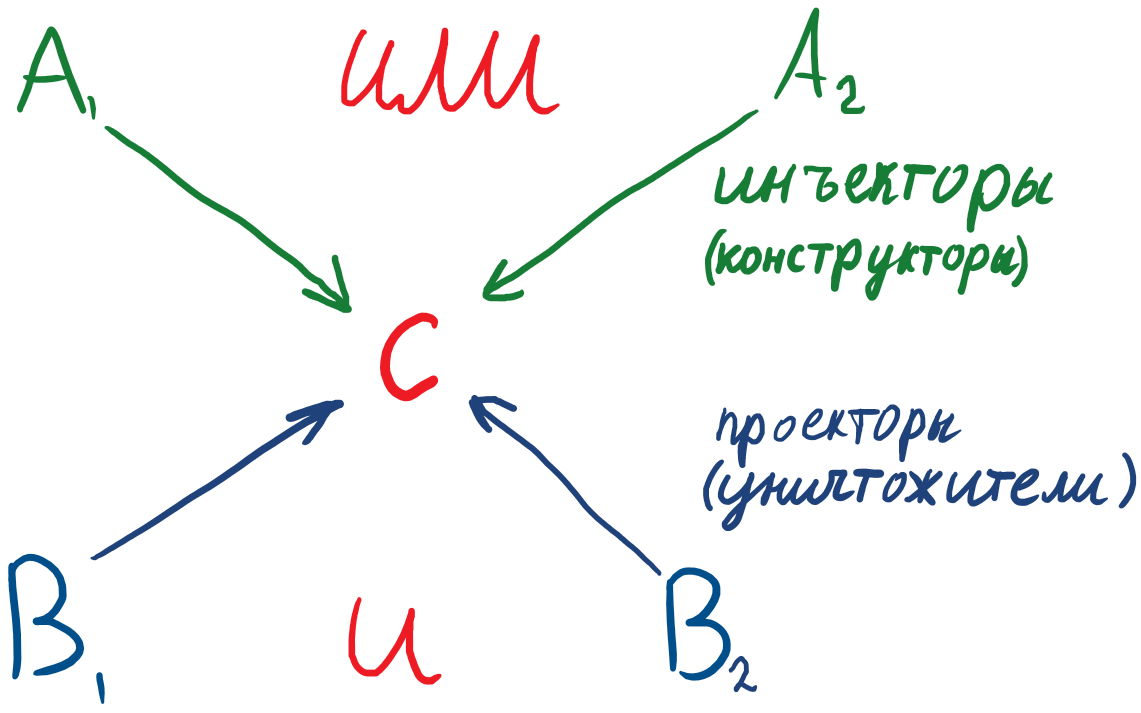
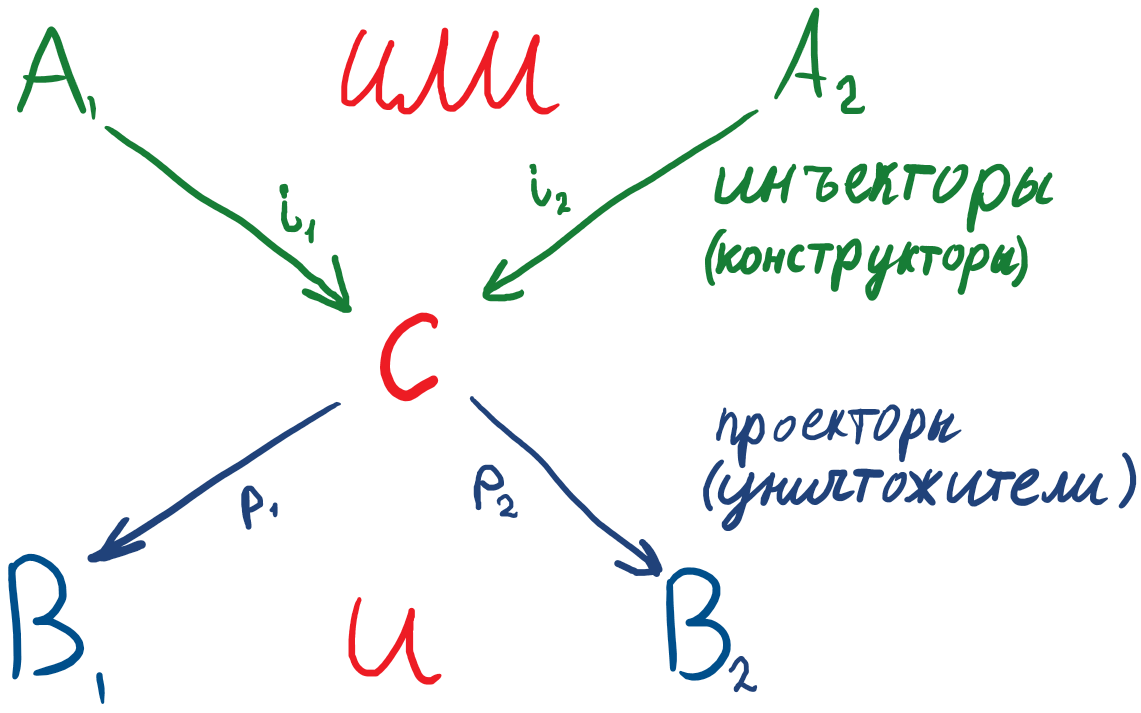
tt

diff --git a/Рефераты/Теория типов/Основы теории типов.md b/Рефераты/Теория типов/Основы теории типов.md
@@ -46,7 +46,7 @@
 
 Не секрет, что программирование основывается на глубокой математической теории. Многие ключевые понятия, которые встречаются в различных областях компьютерных наук, пришли именно из математики. Поэтому всем, кто хочет быть программистом, было бы здорово получить более широкое видение предмета - разобраться в самой математической основе программирования.  Но, зачастую, это возвышенное намерение наталкивается на высокий порог вхождения в высшую математику. Основная проблема заключается в традиционных особенностях математической литературы - нарочитой оторванности от реальности, от практических задач. Типичный математический текст начинается со знакомства со "взятой с потолка" абстракцией, и потом рассматриваются её "удивительной красоты" свойства. И только в редких работах где-то в конце можно увидеть коротенькую заметку, что, мол, какие-то физики нашли как применить эту "красоту" для каких-то там своих нужд.
 
-Порог вхождения снижают различные блоги, в которых рассказывается, как те или иные математические абстракции применяются для решения конкретных задач, в частности, в программировании. Но при объяснении полезности абстракции часто упускается важный аспект - **неизбежность** появления именно этой абстракции как **наилучшего** инструмента для решения целого класса задач. Дело в том, что зачастую сами условия обобщённой задачи приводят к появлению наилучшей абстракции для её решения. Понимание связи абстракции с условиями задачи расширяет горизонты, позволяет в дальнейшем находить оптимальные реализации этой абстракции для каждого конкретного случая, подпадающего под указанные условия. Именно на этот аспект сделан основной упор в данном обзоре теории типов.
+Порог вхождения снижают различные блоги, в которых популярно рассказывается, как те или иные математические абстракции применяются для решения конкретных задач, в частности, в программировании. Но при объяснении полезности абстракции часто упускается важный аспект - **неизбежность** появления именно этой абстракции как **наилучшего** инструмента для решения целого класса задач. Дело в том, что зачастую сами условия обобщённой задачи приводят к появлению наилучшей абстракции для её решения. Понимание связи абстракции с условиями задачи расширяет горизонты, позволяет в дальнейшем находить оптимальные реализации этой абстракции для каждого конкретного случая, подпадающего под указанные условия. Именно на этот аспект сделан основной упор в данном обзоре теории типов.
 
 Теория типов - очень богатая тема, поэтому в этой статье придётся ограничится лишь самыми ключевыми аспектами. Многое останется за кадром - обобщённые, рекурсивные, зависимые типы и многое другое. Практически не будет упоминаться теория категорий, хотя будут использоваться некоторые понятия оттуда. Всё это - очень интересные, но достаточно самостоятельные темы, которые имеет смысл освещать отдельно.
 
@@ -54,11 +54,12 @@
 
 ## Множества и классы
 
-### Предпосылки
+### Алгоритмы и переменные
 
 С давних времён люди находили нечто общее в решаемых задачах из самых разных сфер жизни. Например, если одна корова да ещё одна корова - это две коровы, то такое же рассуждение справедливо и для яблок. В этом рассуждении ключевую роль играют не коровы (и, тем более, не яблоки), а [**числа**](https://ru.wikipedia.org/wiki/%D0%A7%D0%B8%D1%81%D0%BB%D0%BE) - одна из первых математических абстракций.
 
-Более четырёх тысяч лет назад в древнем Междуречье люди [умели вычислять](https://elementy.ru/nauchno-populyarnaya_biblioteka/434752/Matematika_v_Mesopotamii) объёмы крепостных стен, площади земельных участков, динамику численности стад и проч. Тогда на примере конкретных житейских проблем были описаны **способы вычисления**, которые применимы для широкого спектра задач, достаточно лишь заменить числа в условии. Но лишь в средние века в Европе в обиход вошло понятие «[алгоритм](https://ru.wikipedia.org/wiki/%D0%90%D0%BB%D0%B3%D0%BE%D1%80%D0%B8%D1%82%D0%BC "Алгоритм")» (по имени [учёного IX века](https://ru.wikipedia.org/wiki/%D0%90%D0%BB%D1%8C-%D0%A5%D0%BE%D1%80%D0%B5%D0%B7%D0%BC%D0%B8)), для которого необходимо использование новой абстракции - [**переменной**](https://ru.wikipedia.org/wiki/%D0%9F%D0%B5%D1%80%D0%B5%D0%BC%D0%B5%D0%BD%D0%BD%D0%B0%D1%8F_%D0%B2%D0%B5%D0%BB%D0%B8%D1%87%D0%B8%D0%BD%D0%B0).
+Более четырёх тысяч лет назад в древнем Междуречье люди [умели вычислять](https://elementy.ru/nauchno-populyarnaya_biblioteka/434752/Matematika_v_Mesopotamii) объёмы крепостных стен, площади земельных участков, динамику численности стад и проч. Тогда на примере конкретных житейских проблем были описаны **способы вычисления**, которые применимы для широкого спектра задач, достаточно лишь заменить числа в условии. Но лишь в средние века в Европе в обиход вошло понятие «[алгоритм](https://ru.wikipedia.org/wiki/%D0%90%D0%BB%D0%B3%D0%BE%D1%80%D0%B8%D1%82%D0%BC "Алгоритм")», для которого необходимо использование новой абстракции - [**переменной**](https://ru.wikipedia.org/wiki/%D0%9F%D0%B5%D1%80%D0%B5%D0%BC%D0%B5%D0%BD%D0%BD%D0%B0%D1%8F_%D0%B2%D0%B5%D0%BB%D0%B8%D1%87%D0%B8%D0%BD%D0%B0).
+![[математика Вавилона.png|Вавилонская табличка Plimpton 322 (~4000 лет), в которой собраны пифагоровы тройки — размеры прямоугольных треугольников, у которых оба катета и гипотенуза выражаются целыми числами.|300]]
 
 Термин "переменная" вовсе не означает, что связанное с ней значение будет меняться по ходу выполнения алгоритма, но значение будет разным для разных задач, которые призван решать этот алгоритм. Обычно, наоборот, подразумевается, что в течении решения задачи переменная остаётся неизменяемой. Если же какое-либо значение окажется фиксированным для всего класса задач, то такое значение принято называть **константой** алгоритма.
 
@@ -69,35 +70,34 @@
 ### Множества
 
 Множество определяется условием **принадлежности** к нему какого-либо элемента (которое, например, может быть другим множеством): $a\in A$.
-Существует выделенное пустое множество $\emptyset$, такое что для любого $a$ утверждение $a\in\emptyset$ ложно. Задать множество можно двумя способами:
+Существуют выделенные пустое $\emptyset$ и универсальное (вселенское) $\mathcal{U}$ множества, такие, что для любого $a$ утверждения $a\in\emptyset$ ложно, а $a\in\mathcal{U}$ истинно. Задать множество можно двумя способами:
 * **экстенсионально** - просто перечислив его элементы - $\{a, b, c\}$;
 * **интенсионально** - указав условие, по которому можно выбрать некоторые элементы существующего множества - $\{$*множество всех людей, кто сейчас читает эту статью*$\}$.
 
 Интенсионально, через условие, определяются основные операции над множествами.
-![[операции над множествами.png]]
+![[операции над множествами.png|Бинарные операции над множествами: пересечение, объединение и разность.|600]]
 
 Также важно понятие отношения между множествами, в частности, равенство множеств.
-![[отношения множеств.png]]
+![[отношения множеств.png|Отношения между множествами.|600]]
 
 ### Неразличимость и вычисления
 
 Итак, множества нужны прежде всего для того, чтобы характеризовать алгоритмы-функции, отношения совокупностей входных и выходных данных для них. Отношения между множествами принято классифицировать так:
-![[отображения множеств.png]]
-Биекция задаёт класс эквивалентности множеств, что подводит к понятию **мощности** множества. Множества одинаковой мощности являются эквивалентными, неразличимыми, если они не обогащения иными математическими структурами.
+![[отображения множеств.png|Отображения множеств.|600]]
+Биекция задаёт *класс эквивалентности* множеств, что подводит к понятию **мощности** множества. Множества одинаковой мощности являются эквивалентными, неразличимыми, если они не обогащения иными математическими структурами.
 
-Например, восьми-байтовая ячейка памяти может хранить в себе значения как из множества `Int64`, так и из `double` - эти множества имеют одинаковую мощность, но чтобы различить их необходимо для них предоставляется **разный набор возможностей**. Или житейский пример: мы не сможем отличить множество коров от множества яблок, если и яблоки и коровы не только выглядят, но даже пишутся одинаково))). А если не одинаково, значит у нас есть **дополнительная структура** над множествами - операция отношения, которая позволяет сравнить корову с яблоком.
+Например, восьми-байтовая ячейка памяти может хранить в себе значения как из множества `Int64`, так и из `double` - эти множества имеют одинаковую мощность, но чтобы различить их необходимо для них предоставляется **разный набор возможностей**. Или житейский пример: мы не сможем отличить множество коров от множества яблок, если и яблоки и коровы не только выглядят, но даже пишутся одинаково))). А если не одинаково, значит у нас есть **дополнительная структура** над множествами - операция отношения, которая позволяет сравнить корову с яблоком. Но рассмотрим
 
 ### Пример из программирования
 
-Рассмотрим класс задач свёртки списков элементов из выбранного множества - получение на основе списка единственного значения из этого же множества. Суммирование чисел, конкатенация строк или даже получение большой инструкции из последовательности небольших инструкций - всё это частные случаи задач, относящиеся ко всё тоже свёртке списка.
+Есть целый класс задач свёртки списков элементов из выбранного множества - получение на основе списка единственного значения из этого же множества. Суммирование чисел, конкатенация строк или даже получение большой инструкции из последовательности небольших инструкций - всё это частные случаи задач, относящиеся ко всё тоже свёртке списка.
 
 Для такого класса задач нам требуется дополнительная структура над множествами - набор функций позволяющий "уменьшать количество" элементов списка. Такая структура называется "**моноид**". Абстрактный моноид обычно описывается так:
-* некое **множество** (числа, строки...),
-* **бинарная операция** на этом множестве - принимает два элемента множества, и "сворачивает" их в один (сложение, умножение чисел; конкатенация строк или вычисление самой длинной и т.п.),
-* **нейтральный элемент** из этого множества - значение "по умолчанию" для случая пустого списка (единица для умножения, пустая строка для конкатенации...),
-* "законы":
-	* ассоциативность бинарной операции позволяет производить свёртку "в любом направлении" (порядок элементов списка не имеет значения), и даже параллельно (как будто разбиваем список на список нескольких списков и сворачиваем их независимо друг от друга),
-	* свойства нейтрального элемента по отношению к бинарной операции.
+* некое **множество** (числа, строки...);
+* ассоциативная **бинарная операция** на этом множестве - принимает два элемента множества, и "сворачивает" их в один (сложение, умножение чисел; конкатенация строк или вычисление самой длинной и т.п.);
+* **нейтральный элемент** из этого множества, который превращает бинарную операцию в тождественную - значение "по умолчанию" для случая пустого списка (единица для умножения, пустая строка для конкатенации...).
+
+![[моноид.png|Моноид - это множество M, ассоциативная бинарная операция на нём и нейтральный элемент из него.|500]]
 
 На практике для построения алгоритмов с использованием, того же моноида "лишним" в его определении оказывается... множество! В самом деле, если есть возможности моноида (бинарная операция и нейтральный элемент) инструкции не меняются, если в качестве множества мы выбираем `int`, `double` или `string` - описание алгоритма остаётся тем же! Фактически, множество выступает всего лишь как некий ярлык - связующее звено для композиции различных возможности (моноида и прочих). Так на переднем плане появляется концепция типа.
 
@@ -105,8 +105,9 @@
 
 ### Определение типа
 
-Тип - это не более чем некая метка, приписываемая _к каждому_ терму (переменной, выражению и т.п.). Типы позволяют формализовать возможные преобразования термов, без изучения их внутренней структуры, составляющих их элементов. Суть типа полностью определяется совокупностью отображений-функций, связывающих его с другими типами (не только с типами, но не важно))). Зачастую такие отображения бывает удобно отобразить на диаграмме в виде ориентированного графа:
-![[определение типа.png|500]]
+Тип - это не более чем некая метка, приписываемая _к каждому_ терму (переменной, выражению и т.п.). Если терм $a$ типа $A$, то записывается это как $a: A$. Типы позволяют формализовать возможные преобразования термов, без изучения их внутренней структуры, составляющих их элементов. Суть типа полностью определяется совокупностью отображений-функций, связывающих его с другими типами (не только с типами, но не важно))). Зачастую такие отображения бывает удобно отобразить на диаграмме в виде ориентированного графа:
+
+![[определение типа.png|Тип - это метка терма, позволяющая описать процесс вычисления, указав связи-функции (i₁, i₂, p₁, p₂) с другими такими метками.|500]]
 
 Типы отличаются друг от друга только своим положением на такого рода диаграммах. Чтобы определить тип нужно
 * указать совокупность "входящих" отображений (также говорят "инъекторы" или "конструкторы");
@@ -124,34 +125,29 @@
 
 ### Универсальное свойство и композиция функций
 
-Универсальное свойство какой-либо конструкции в теории типов определяется **единственностью** функции из любого типа-кандидата в "наилучший" тип, либо же, наоборот, в обратную сторону. "Единственность" функции, идущей от одного типа к другому, означает *эквивалентность* всех функции также связывающих эти типы. Такой "наилучший" тип и семейство уникальных морфизмов также называют "универсальными".
+Универсальное свойство какой-либо конструкции в теории типов определяется **единственностью** функции из любого типа-кандидата в "наилучший" тип, либо же, наоборот, в обратную сторону. "Единственность" функции, идущей от одного типа к другому, означает *эквивалентность* всех функции связывающих эти типы в том же направлении. "Наилучший" тип и семейство уникальных морфизмов также называют "универсальными".
 
 Универсальное свойство в теории типов можно определить как-то так:
 > Существует тип и единственная функция принимающая (или возвращающая) значения этого типа, такая что соответствующая диаграмма будет коммутативной.
 
-Звучит, пожалуй, сложновато)). Наверное, на начальном этапе универсальное свойство стоит воспринимать просто как некий универсальные способ однозначного формулирования различных абстракций поверх теории типов. Сейчас имеет смысл, разве что, сказать пару слов про упомянутую "коммутативность".
+Звучит, пожалуй, сложновато)). Наверное, на начальном этапе универсальное свойство стоит воспринимать просто как некий универсальные способ однозначного формулирования различных абстракций в теории типов. Сейчас имеет смысл, разве что, сказать пару слов про "коммутативность".
 
 Диаграмма считается коммутативной, если двигаясь по стрелкам *разными* путями от любого значения одного типа к другому мы получим *одинаковый* результат ("перестановочность путей"). Например, посмотрим на такую диаграмму:
-![[композиция функций.png|300]]
+![[композиция функций.png|Коммутативная диаграмма композиции фукнций.|300]]
 Здесь $g \circ f$ - это **композиция функций** $f$ и $g$:
 ```scala
-def f(a: A): B = ??? // какая-то функция
-def g(b: B): C = ??? // какая-то функция
-def h = g compose f  // получилась функция из A в C
+def f(a: A): B = ???                // какая-то функция
+def g(b: B): C = ???                // какая-то функция
+assert((g compose f)(a) == g(f(a))) // для любого a: A
 ```
-С непривычки может смутить странный порядок операндов для композиции функций - "с конца в начало". Получается что-то вроде такого: "функция $h$ возвращает результат применения функции $g$ к результату применённая функции $f$". На самом деле возможное удивление - это следствие привычек. Со временем вы можете обнаружить, что именно такой порядок операндов наиболее логичен)).
-
-Так вот диаграмма для композиции функций коммутативна по самому определению композиции:
-```scala
-assert((g compose f)(a) == g(f(a))) // для любых f, g и a
-```
+Так вот диаграмма для композиции функций коммутативна по самому определению композиции. 
 
 К этому моменту у кого уже не должно остаться сомнений, что функции - это душа теории типов, а теория типов - основа ~~функционального~~ программирования!
 
 ### Сумма типов
 
 Вооружившись понятием универсального свойства, попробуем определить новый тип как "$A$ или $B$". В математике это обычно называют **суммой типов**. На диаграмме ниже представлено универсальное свойство для типа-суммы:
-![[сумма типов.png|400]]
+![[сумма типов.png|Универсальное свойство суммы типов.|400]]
 Для *любых* типа $D$ и функций $f$ и $g$ существует **единственный** (с точностью до изоморфизма) тип $A+B$ и **единственная** функция $u$, делающие диаграмму коммутативной. Здесь $i_A$ и $i_B$ - это два разных **конструктора** (инъектора) типа $A+B$ из значений типов $A$ и $B$. Рассмотрим конкретные примеры сумм типов в языке программирования Scala.
 
 Обязательный тип-сумма, который присутствует в каждом языке программирования - булевский тип, у которого может быть только два разных значения - `true` или `false`:
@@ -171,7 +167,7 @@ assert((g compose f)(a) == g(f(a))) // для любых f, g и a
   enum Type3 { case One, Two, Three } // One + Two + Three
 ```
 
-Также в библиотеке Scala есть стандартный *обобщённый* типы `Either` (и другие), реализующий семантику суммы типов через наследование:
+Также в библиотеке Scala есть стандартный *обобщённый* тип `Either` (и другие), реализующий семантику суммы типов:
 ```scala
   type IntOrInt = Int Either Int  // Int + Int
 ```
@@ -197,14 +193,14 @@ assert((g compose f)(a) == g(f(a))) // для любых f, g и a
 ### Произведение типов
 
 Если на диаграмме универсального свойства для типа суммы мы обратим все стрелки обратно, то получим универсальное свойство типа-произведения, соответствующего семантике высказывания $A$ **и** $B$:
-![[произведение типов.png|400]]
+![[произведение типов.png|Диаграмма универсального свойства произыеденгия типов.|400]]
 Для *любых* типа $D$ и функций $f$ и $g$ существует **единственный** (с точностью до изоморфизма) тип $A\times B$ и **единственная** функция $u$, делающие диаграмму коммутативной. Здесь $p_A$ и $p_B$ - это два **проектора** типа $A\times B$ на типы $A$ и $B$. Рассмотрим конкретные примеры произведения типов в языке программирования Scala.
 
 Прежде всего, это привычные ООП-шные классы (а также трейты, интерфейсы, структуры, записи, объекты или что ещё есть в вашем любимом языке программирования?)):
 ```scala
   case class BoolAndDouble(b: Boolean, d: Double) // Boolean × Double
 ```
-Открытые поля и свойства класса - это и есть те самые проекции типа-произведения. Методы класса также можно считать проекциями значений функционального типа (этот тип мы рассмотрим чуть ниже). В прочем, классы (трейты, объекты) Scala на самом деле больше чем просто типы произведения - в них можно также определять абстрактные типы, методы-расширения, неявные методы и значения и проч. Но это уже не про теорию типов.
+Открытые поля и свойства класса - это и есть те самые проекции типа-произведения. Методы класса также можно считать проекциями значений функционального типа (этот тип мы рассмотрим чуть ниже). В прочем, классы (трейты, объекты) Scala на самом деле больше чем просто типы произведения - в них можно также определять абстрактные типы, методы-расширения, неявные методы и значения и проч. Но это уже чуть в стороне от темы данной публикации.
 
 Наиболее выразительно тип произведения определяется в Scala c помощью кортежей:
 ```scala
@@ -221,27 +217,27 @@ assert((g compose f)(a) == g(f(a))) // для любых f, g и a
 ```
 Но тут есть аналогичная проблема, как и с объединением типов. Например, `Int & Int` будет *точно тоже самое*, что и просто `Int` - такое пересечение не позволяет получить произведение двух одинаковых типов, чего вполне можно достичь с помощью тех же кортежей.
 
-Симметричность с точностью до инверсии всех стрелок универсальных свойств суммы и произведения типов является фундаментальной особенностью теории ~~категорий~~типов. Если мы формулируем какое-то универсальное свойство, то мы автоматически получаем и **дуальное** ему. Дуальность в теории типов следует из возможности декомпозиции вычислений на шаги, выполняемые *последовательно* во времени - имея такую последовательность, её можно развернуть в обратную сторону. Инвертированные шаги не всегда может получится реализовать, но общие утверждения об исходном алгоритме будут справедливы и для обратного (опять же с точностью до направления рассуждений). Таким образом дуальность обусловлена существованием стрелы времени)).
+Симметричность с точностью до инверсии всех стрелок универсальных свойств суммы и произведения типов является фундаментальной особенностью теории ~~категорий~~типов. Если мы формулируем какое-то универсальное свойство, то мы автоматически получаем и **дуальное** ему. Дуальность в теории типов следует из возможности декомпозиции вычислений на шаги, выполняемые *последовательно* во времени - имея такую последовательность, её можно развернуть в обратную сторону. Инвертированные шаги не всегда может получится реализовать, но общие утверждения об исходном алгоритме будут справедливы и для обратного (опять же с точностью до направления рассуждений). Таким образом дуальность можно обосновать существованием стрелы времени.
 
 ### Экспоненциал типов
 
 Рассмотрим сумму двух одинаковых типов $B=A+A$. Это значит, что у нас есть два конструктора типа $B$ из типа $A$. Сумма типов устроена так, что её значения "помнят", каким конструктором они были созданы - это необходимо, чтобы из типа суммы получить значения какого-либо другого типа, если мы знаем, как их получить из значений типов-слагаемых (сопоставление с шаблонами). Фактически это значит, что для типа $A+A$ у нас есть не только проекция обратно в $A$, но в некий индексирующий тип, значения которого определяют выбор того или иного слагаемого.
 
 Это можно визуализировать с помощью такой диаграммы:
-![[произведение из суммы.png|300]]
+![[произведение из суммы.png|Тип B является суммой A и A, но его такде можно считать произведением A и 2.|300]]
 Здесь $i_1$ и $i_2$ - два конструктора типа $B$, а $2$ - это тот самый индексирующий тип, у которого в нашем случае есть только два возможных значения. Получается, что тип $B$, представленный на диаграмме, можно определить двумя разными способами - и как сумму $A+A$ и как произведение $A\times2$!
 
 Тут стоит обратить внимание на следующую идею: значения нашего индексирующего типа *ставятся в соответствие* функциям из $A$ в $B$. Так может быть эти функции также являются значениями какого-то типа?..
 
 Но сперва давайте рассмотрим практически ту же самую диаграмму, но с другой точки зрения. Теперь вместо конструкторов типа $B$  $i_1$ и $i_2$ теперь у нас теперь есть проекторы типа $A$  $p_1$ и $p_2$, иными словами, $A=B\times B$. Поэтому, имея значение типа $A$ мы можем получить значение типа $B$, только если мы **выберем** один доступных проекторов, т.е. на момент вычисления у нас на руках есть, помимо значения типа $A$, ещё и предпочтённый индекс проектора. Такая пара значений относится к типу $A\times2$, где $2$ - тип, индексирующий проекторы $A$. Тогда имея значение типа $A\times2$ у нас будет возможность вычислить (evaluate) значение типа $B$:
-![[экспоненциал из произведения.png|300]]
+![[экспоненциал из произведения.png|Почти те же яйца, только сбоку: конструкторы превратились в проекторы, и мы теперь рассматриваем A = B × B.|300]]
 Эти соотношения справедливы для любых индексирующих типов - для любого количества проекторов (или, дуально, конструкторов).
 
 Тип $A$ на диаграмме, чьи проекторы в тип $B$ индексируются типом $2$ обозначают как $A=B^2$ и называют **экспоненциалом**. Точнее, на месте $A$ могут оказаться разные типы, а экпоненициалом называется только лучший их них, обладающий универсальным свойством:
-![[экспоненциал.png|500]]
+![[экспоненциал.png|Универсальное свойство экспоненциала.|500]]
 Для любого типа $A$ и функции $g$ существует единственные тип $B^C$ и функция $u$, делающие эту диаграмму коммутативной.
 
-Экспоненциал $B^C$ имеет очень простую трактовку - это **тип функций** из значений типа $C$ в тип $B$. Пара значений $(f, c)$ типа $B^C\times C$ - это всё, что необходимо для вычисления значения $f(c)$ типа $B$.
+Экспоненциал $B^C$ имеет очень простую трактовку - это **тип функций** из значений типа $C$ в тип $B$. Пара значений $(f, c)$ типа $B^C\times C$ - это всё, что необходимо для вычисления (*evaluate*) значения $f(c)$ типа $B$.
 
 Функции, как значения некоторого типа, ("[первоклассные функции](https://ru.wikipedia.org/wiki/%D0%A4%D1%83%D0%BD%D0%BA%D1%86%D0%B8%D0%B8_%D0%BF%D0%B5%D1%80%D0%B2%D0%BE%D0%B3%D0%BE_%D0%BA%D0%BB%D0%B0%D1%81%D1%81%D0%B0)") есть в том или ином виде практически во всех популярных языках программирования: "указатели на функцию" в С++, "делегаты" в C# и т.п. В Scala для типа функций обычно используются конструкции такого вида:
 ```scala
@@ -272,7 +268,7 @@ assert((g compose f)(a) == g(f(a))) // для любых f, g и a
     = toStringDoubled
 ```
 
-Существует также дуальное эксопненциалу $A^B$ понятие *ко-экспоненциала* типов $A_B$. Это понятие весьма нетривиально, но если игнорировать особенности, связанные с нулевыми типами (про них будет далее), то можно согласиться на такой изоморфизм: $A_B\cong B^A$. Утрировано, *тип функции дуален самому себе*.
+Существует также дуальное эксопненциалу $A^B$ понятие *ко-экспоненциала* типов $A_B$. Это понятие весьма нетривиально, но если игнорировать особенности, связанные с нулевыми типами (про них будет далее), то можно согласиться на такой изоморфизм: $A_B\cong B^A$. Это вполне соответствует ожиданию, что для получения дуальной диаграммы необходимо развернуть все стрелки, представляющие функции-значения экспоненциального типа. Утрировано, *тип функции дуален самому себе*.
 
 Типы суммы и произведения естественно следуют из самой концепции типа, буквально, определяются входящими и исходящими стрелками соответственно. В то же время, на их фоне экспоненциал выглядит несколько искусственно. Могут возникнуть вопросы, например, есть ли более фундаментальные конструкции, для которых экспоненциал будет лишь частным случаем? На самом деле, есть глубокая связь экспоненциала с суммой и произведением, делающая эту тройку фундаментом для простой теории типов. Просто не удалось найти способа продемонстрировать этого без привлечения других интересных понятий из теории категорий. Так что "ждите в следующих сериях"!))
 
@@ -284,7 +280,7 @@ assert((g compose f)(a) == g(f(a))) // для любых f, g и a
 
 Иногда говорят, что терм какого-то типа **являются** также и термом всех супертипов этого типа, т.е. с термом ассоциирован не один тип, а несколько. С такой точки зрения строятся различные интересные ответвления теории типов, но на данную ситуацию можно посмотреть и проще. Ведь по сути, мы имеем дело с наличием неявного преобразования значений от подтипа к супертипу.
 Можно сказать, что **отношение подтипизации - это просто функция**!
-
+![[Типы Scala.png|Иерархия типов Scala. Все стрелки здесь - неявные функции приведения типов.|600]]
 В Scala, помимо ООП-шного наследования ("расширения" или имплементации абстрактных типов), есть и встроенные неявные преобразования типов, а также можно определять свои:
 ```scala
 given Conversion[Int Either Int, (Boolean, Int)] = // Int + Int => 2 × Int
@@ -596,15 +592,15 @@ object classless:
 $$\|0\|=0,\;\|1\|=1.$$
 
 Рассмотрим покомпонентно сумму типов:
-![[мощность суммы.png|500]]
+![[мощность суммы.png|Внутренняя структура суммы типов. Если ||A||=3 и ||B||=2 то ||A+B||=5.|500]]
 Стрелки здесь обозначают не функции, а пару связанных значений. Тогда функция от одного типа к другому - это набор таких пар. Из диаграммы видно, что операция вычисления мощности типа сохраняет сложение: $$\|A+B\|=\|A\|+\|B\|.$$
 Рассмотрим теперь произведение типов. Для простоты представим произведение как многократную сумму:
-![[мощность произведения.png|500]]
+![[мощность произведения.png|Внутренняя структура произведения типов. Если ||A||=3 и ||B||=2 то ||A×B||=6.|500]]
 Здесь $a_ib_j$ - это просто обозначение элемента типа $A\times B$. Очевидно что для произведения выполняется соотношение аналогичное сумме типов:
 $$\|A\times B\|=\|A\|\times\|B\|.$$
 
 При рассмотрении типа-экспоненциала $B^A$, достаточно вспомнить что каждый его объект, функция, в теории множеств представляет собой набор пар значений типа $A$ и $B$, причём в этом наборе присутствуют все элементы типа $A$ в единственном количестве. Чтобы вычислить все возможные значения этого типа достаточно перебрать все различающиеся наборы пар:
-![[мощность экспонциала.png|600]]
+![[мощность экспонциала.png|Внутренняя структура экспоненциала типов. Если ||A||=3 и ||B||=2 то ||Bᴬ||=8.|600]]
 Получается, что вычисление мощности типа сохраняет также и экспоненту:
 $$\|B^A\|=\|B\|^{\|A\|}\;\;\;(B\ncong0).$$
 Удивительный результат, не правда ли?
@@ -652,10 +648,8 @@ $$\|B^A\|=\|B\|^{\|A\|}\;\;\;(B\ncong0).$$
 |Ложная формула|Нулевой тип $0$|
 |Отрицание $\neg A$|Экспоненциальный тип $0^A$|
 
-https://habr.com/ru/articles/269907/
-Корректности программы-функции эквивалентна обитаемости соответствующего ей типа. Таким доказательством является "свидетель" - значение (терм, если точнее) этого типа. Например, значением функционального типа, описывающего программу, является *реализация* этой программы, внутри которой мы получаем значение типа-результата на основе значений типов аргументов. Но невозможно предоставить доказательство обитаемости нулевого типа - такой тип соответствует ложному высказыванию.
+Корректность программы-функции эквивалентна обитаемости соответствующего ей типа. Таким доказательством является "свидетель" - значение (терм, если точнее) этого типа. Например, значением функционального типа, описывающего программу, является *реализация* этой программы, внутри которой мы получаем значение типа-результата на основе значений типов аргументов. Но невозможно предоставить доказательство обитаемости нулевого типа - такой тип соответствует ложному высказыванию.
 
-https://www.mccme.ru/dubna/2017/notes/bragilevsky-notes.pdf
 Особого внимания заслуживает понятие "отрицание типа": $\neg A\cong0^A$. В *конструктивной* теории типов попросту невозможно построить незавершающиеся вычисления. Функции из любого обитаемого типа $A$ в нулевой тип просто не существует, тип таких функций необитаем: $0^A\cong0$. Но если необитаем сам $A\cong0$, тогда $0^A\cong1$ - единственное значение такого типа-экспоненциала - это функция идентичности. Таким образом, "отрицание" обитаемого типа превращает его в "ложный" необитаемый тип, а "отрицание" необитаемого типа - это "истинный" тип-одиночка!
 
 Логическая тавтология $A\Rightarrow \neg\neg A$ полностью соответствует аналогичному выражению в теории типов - если есть обитаемый тип $A$, то мы всегда можем получить его двойное отрицание - тип-одиночку. Первое отрицание в $\neg\neg A$ даёт необитаемый тип, отрицание которого соответствует типу-одиночке. Но вот обратное утверждение $\neg\neg A\Rightarrow A$ уже не является конструктивным - двойное отрицание типа даёт "истинный" тип-одиночку, но не исходный тип.
@@ -813,6 +807,10 @@ Y f = f(Y(f))
 Итак, мы получили язык для вычисления без каких либо ограничений. В SKI можно как угодно комбинировать функции и получать при этом совершенно корректную функцию. Корректность без типов! Но какой мы можем предать смысл произвольному комбинатору, если это ни к чему нас не обязывает? Для решения задач из материального мира приходится учитывать определённым образом классифицированные (типизированные!) условия и в этом же ключе нужно будет трактовать результат вычисления. Чтобы учесть такие классификации-типизации необходимо корректного пронести их через все вычисления.
 
 Смысл в SKI может появиться, если ограничить себя некоторым подъязком (DSL), вроде того, что представлен выше - с булевским и числовым типами, с парами, списками и деревьями, и c рекурсией. **Бестиповое исчисление приобретает смысл, когда некими ограничениями в нем вводятся типы**.
+
+![[SKI.png|Граф всех возможных путей упрощения выражения S(S(SS))(K(SK))S. Не знаю, кому это может быть полезно, но впечатляет!|500]]
+[Бомбические картинки Combinators: A Centennial View](https://writings.stephenwolfram.com/2020/12/combinators-a-centennial-view/)
+
 
 ## Заключение
 

diff --git a/Рефераты/Теория типов/Обобщённые типы.md b/Рефераты/Теория типов/Обобщённые типы.md
@@ -6,8 +6,14 @@
 - сопряжения, расширения Кана, монады;
 - полиморфизм сортов (вселенных) типов;
 
+### Конструкторы типов и параметрический полиморфизм
 
-## Вселенные типов
+### Обобщённые типы и подтипизация
+
+В прочем, в Scala всё же есть различие в работе с подтипизацией между ООП-шным наследованием и прочим неявным приведением типов - для ограничений параметров обобщённых типов использовался разный синтаксис. А в новых версиях языка второй вариант сочли небезопасным и вообще запретили - параметры обобщённых типов можно ограничивать подтипизацией, определённой *только* через наследование.
+
+### Сорта и вселенные типов
+
 Парадоксы, характерные для множеств, проявляются и для типов.
 Например, парадокс Жерара демонстрирует, что **тип всех типов невозможно построить**.
 Один из способов избегания такого рода парадоксов - введение **кумулятивной вселенной типов**.
@@ -20,24 +26,8 @@
 * Каждый тип принадлежит не только своей вселенной, но и всем вселенным с более высоким индексом (**кумулятивность**).
 Например, в программировании обобщённые типы (`list`, `option`, `Task`) относятся к вселенным более высоких индексов чем простые типы (`integer`, `boolean`, `string`, пользовательские простые типы и т.п.).
 
-### Обобщённые типы
-
-В прочем, в Scala всё же есть различие в работе с подтипизацией между ООП-шным наследованием и прочим неявным приведением типов - для ограничений параметров обобщённых типов использовался разный синтаксис. А в новых версиях языка второй вариант сочли небезопасным и вообще запретили - параметры обобщённых типов можно ограничивать подтипизацией, определённой *только* через наследование.
-
-### Сорта
-
-### Зависимые типы
-
-### Полиморфизм сортов и вселенных
-
-## Перспективы
-
 ### Теория категорий
 
 Теория категорий появилась как развитие идей теории типов - не все интересные штуки удавалось описать в рамках теории типов.
 Стрелки - это не только морфизмы, которые позволяют перейти от $A$ к $B$.
 Но сейчас (HoTT?) известно, что теорию категорий (также как и теорию множеств) можно вывести из теории типов.
-
-### Гомотопическая теория типов
-
-### Теория типов с учётом стоимости
